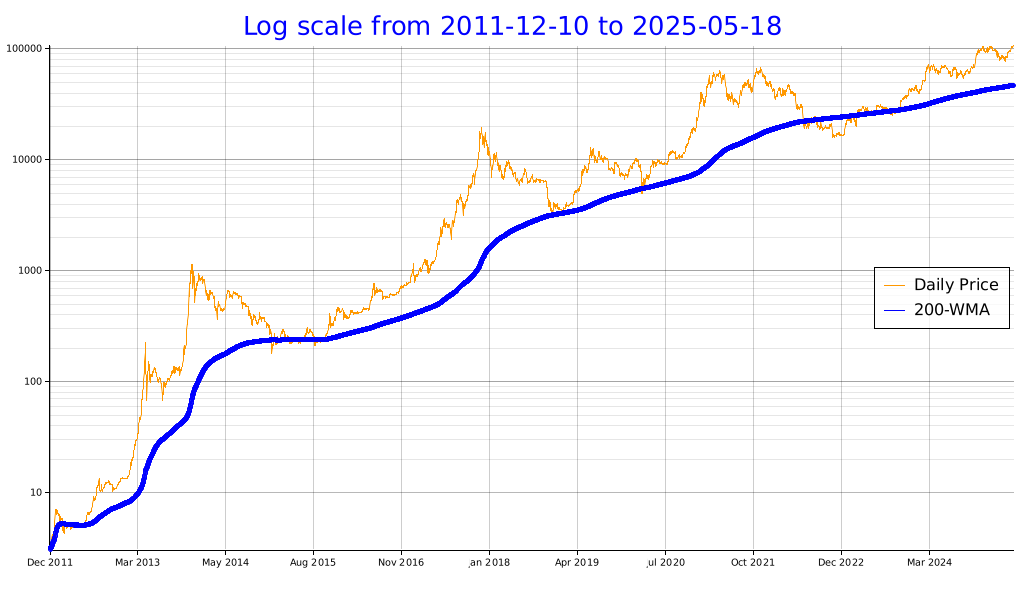
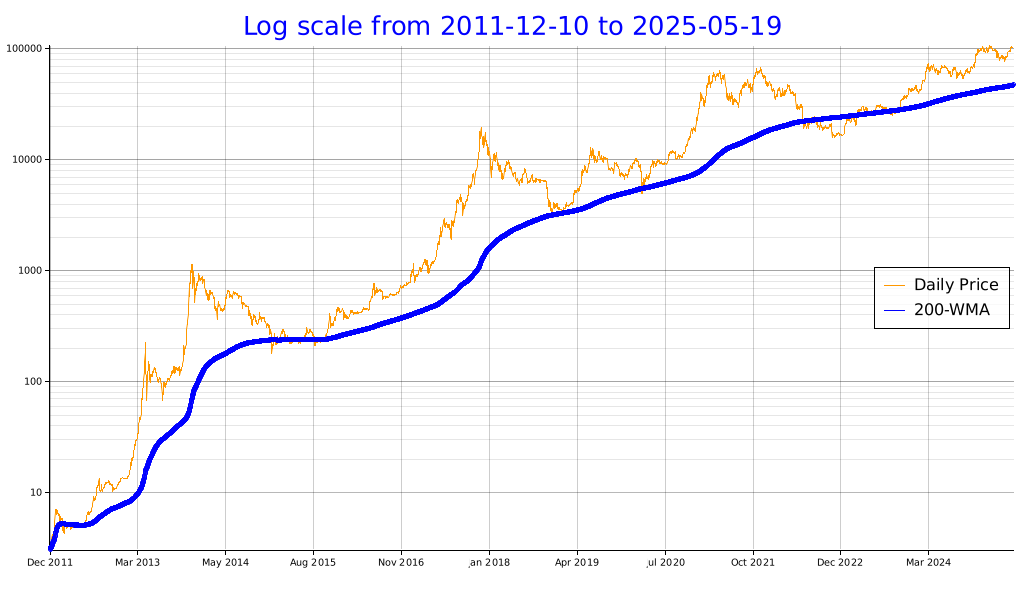
deploy: 32c38bfc33973f71076a7465fb8cd65e6d188ef2

Changed region(s): [[0.875, 0.93, 0.9375, 0.96], [0.7812, 0.93, 0.8438, 0.96], [0.75, 0.03, 0.7812, 0.06]]

diff --git a/index.html b/index.html
@@ -221,16 +221,16 @@
         </thead>
         <tbody>
           <tr>
-            <td>2025-05-18</td>
-            <td>103,162.85</td>
-            <td>106,206.38</td>
-            <td>103,162.85</td>
-            <td>106,206.38</td>
-            <td class='wma-column'>47,276.37</td>
-            <td>53.14 (0.11 %)</td>
-            <td>74,409.57 (234.0 %)</td>
-            <td>3,043.52 (2.8 %)</td>
-            <td>3,015.29 (2.9 %)</td>
+            <td>2025-05-19</td>
+            <td>106,516.16</td>
+            <td>106,847.61</td>
+            <td>104,860.02</td>
+            <td>105,030.96</td>
+            <td class='wma-column'>47,275.53</td>
+            <td>52.30 (0.11 %)</td>
+            <td>73,234.15 (230.3 %)</td>
+            <td>1,987.59 (1.8 %)</td>
+            <td>1,839.88 (1.7 %)</td>
           </tr>
           <tr>
             <td>2025-05-17</td>
